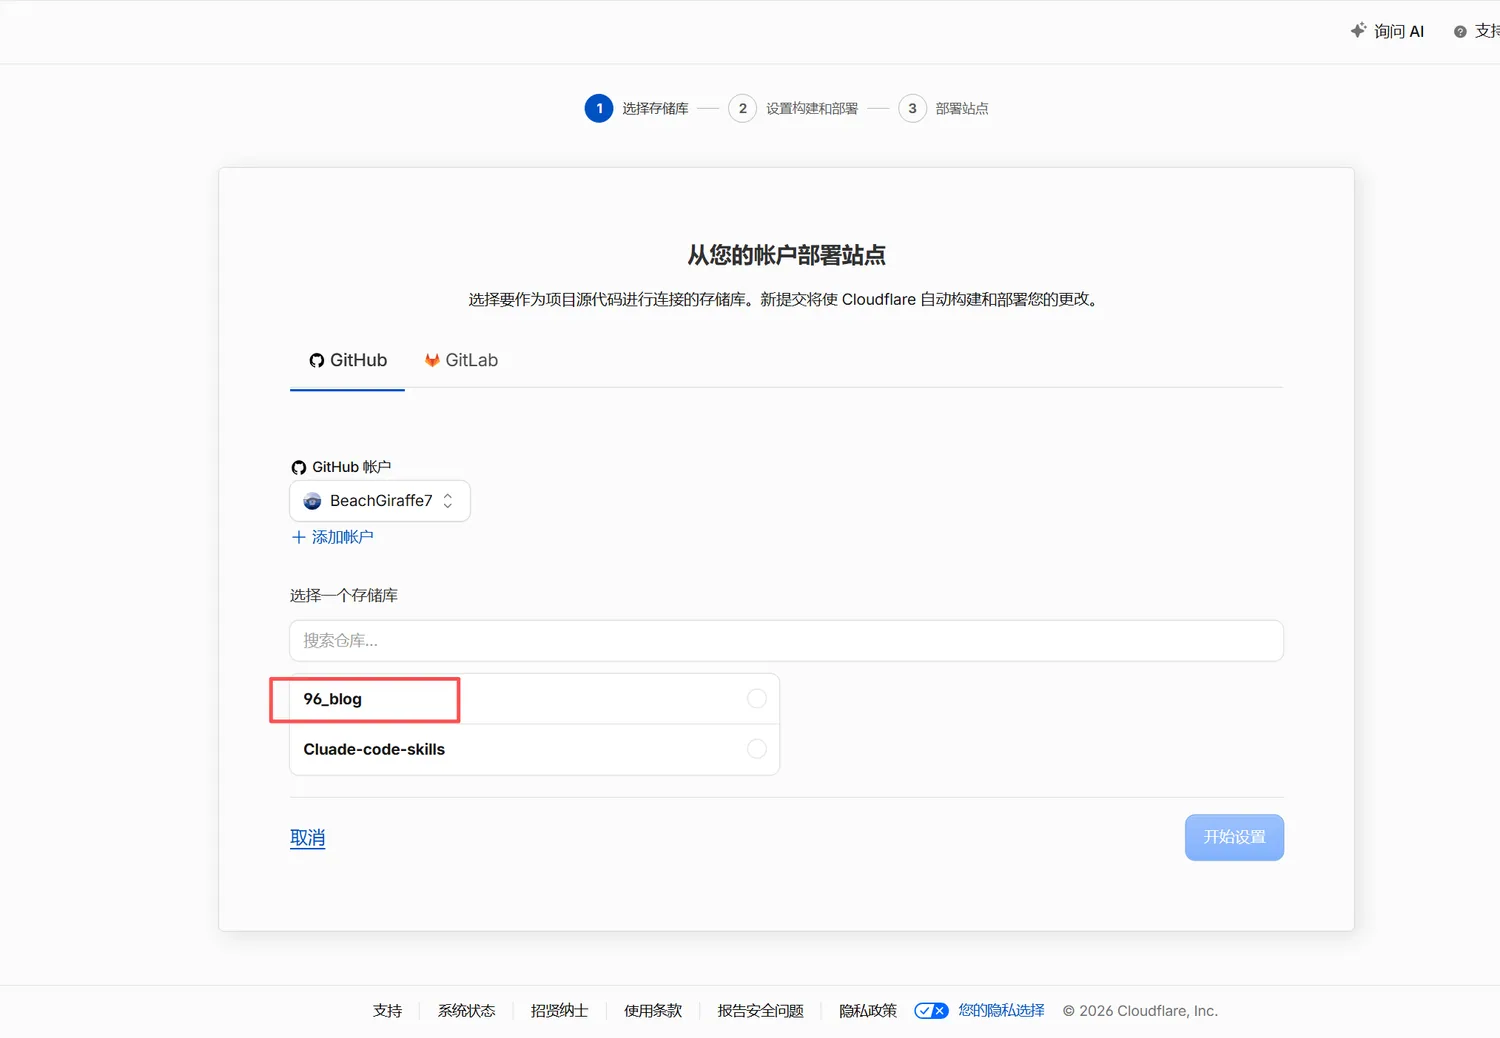
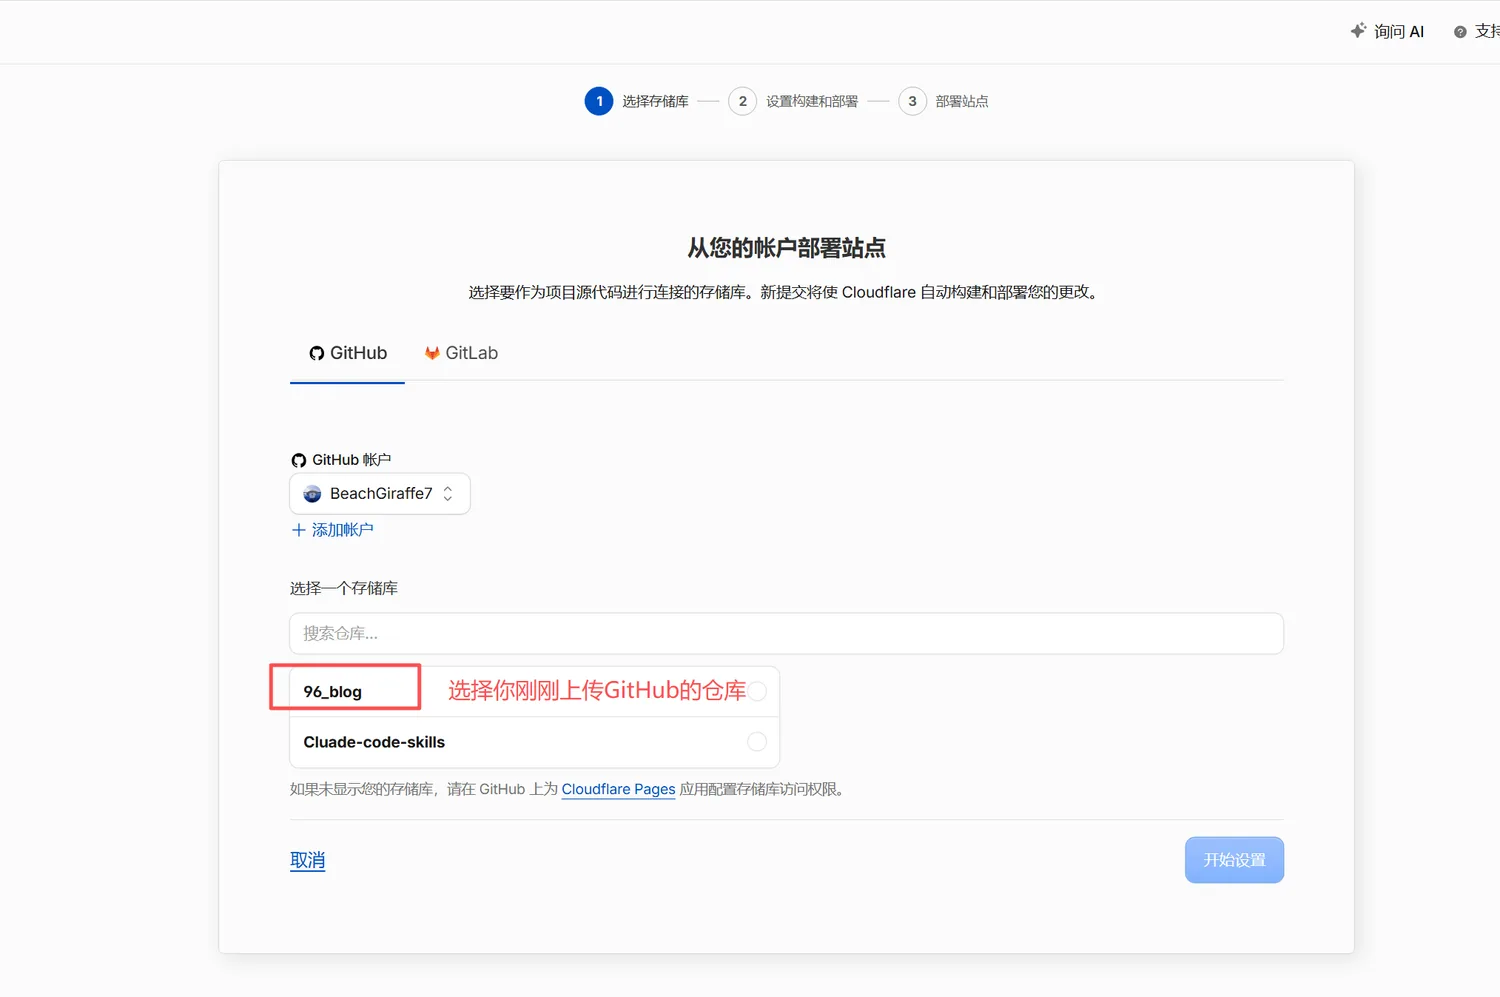
docs: 重排 Cloudflare 章节配图并补图注；新增图片规范与 photo 脚本

diff --git a/docs/图片与写作规范.md b/docs/图片与写作规范.md
@@ -1,0 +1,80 @@
+# 图片与写作规范
+
+站点的每张图都应该有唯一归属。乱放会带来两个问题：图片在线上打不开、仓库越来越胖。
+
+## 一、三种图，三个位置
+
+| 用途 | 存放位置 | 文章里怎么写 |
+| --- | --- | --- |
+| 文章配图（截图、电路图、实物照） | `public/notes/<slug>/image/` | `![](/notes/<slug>/image/xxx.webp)` |
+| 独立照片 / 相册（不属于某篇文章） | `public/photos/2026-10/` | `![](/photos/2026-10/xxx.webp)` |
+| 站点素材（头像、favicon） | `public/` 根目录 | `/avatar.webp` |
+| 分享封面（微信/抖音卡片） | 构建时自动生成到 `dist/og/` | 不用管 |
+| 原始大图（不发布、只本地留档） | `raw/`（已 gitignore） | 不引用 |
+
+`<slug>` 就是文章的网址尾段，例如 `git-github-desktop`。
+
+**为什么不能放 `src/`？** `src/` 是源码目录，里面的图片只有被代码 `import` 才会进打包，Markdown 里的路径引用不到它。只有 `public/` 下的文件会原样出现在线上。
+
+## 二、命名规则
+
+- 小写字母 + 中划线，语义化：`cf-01-workers-pages.webp`、`uart-timing.webp`
+- 同一篇文章里加序号前缀，保证排序稳定：`cf-01`、`cf-02`……
+- **不要用** `1.png`、`微信图片_20260712.png`、`4c868fec-...png` 这类名字，三个月后没人认得出
+
+## 三、尺寸与体积
+
+- 宽 1400–1500px 就够（正文最宽 860px，2 倍屏也清晰）
+- 格式统一 `.webp`，质量 82
+- 单张控制在 200KB 以内；超过就说明该裁或该压
+- 手机拍的照片先裁掉多余的背景，截图只保留有用区域
+
+## 四、截图必须先检查隐私
+
+发布前逐张看一眼，以下内容要裁掉或打码：
+
+- 邮箱、手机号、真实姓名
+- 云服务账号 ID、子域名（如 `xxx.workers.dev`）
+- 二维码、支付信息、聊天记录里的头像
+
+## 五、一条命令搞定转换
+
+照片先丢进 `raw/`，再执行：
+
+```bash
+# 单张，进某篇文章
+npm run photo -- raw/1.png --slug git-github-desktop
+
+# 整个目录，依次命名 cc-01、cc-02……
+npm run photo -- raw/ --slug lecture-07 --name cc
+
+# 独立照片
+npm run photo -- raw/海边.jpg --photos
+```
+
+脚本会自动：转 webp、缩到 1500 宽、放到正确目录、打印可以直接粘贴的 Markdown。
+
+可选参数：`--width 1200`、`--quality 80`、`--name 前缀`。
+
+## 六、图注怎么写
+
+```markdown
+![](/notes/git-github-desktop/image/cf-01-workers-pages.webp)
+```
+
+方括号里留空 → 图上不显示说明。
+方括号里写一句中文 → 图片下方显示为图注：
+
+```markdown
+![Workers & Pages 页面：右上角蓝色按钮就是「创建应用程序」](/notes/git-github-desktop/image/cf-01-workers-pages.webp)
+```
+
+（方括号里若是文件名，比如 `Snipaste_2026-07-05.png`，会被自动判定为噪音，不显示图注。）
+
+## 七、发布前自检
+
+- [ ] 图片都在 `public/notes/<slug>/image/` 或 `public/photos/` 下
+- [ ] 引用路径以 `/notes/` 或 `/photos/` 开头
+- [ ] 没有残留 `./xxx.assets/` 这类相对路径
+- [ ] 每张图都能在本地 `npm run dev` 里正常显示
+- [ ] 截图里没有隐私信息

diff --git a/src/content/notes/git-github-desktop.md b/src/content/notes/git-github-desktop.md
@@ -138,7 +138,7 @@ npm run dev
 
 登录 `dash.cloudflare.com`，左侧栏「计算」分组里点 `Workers & Pages`，然后点右上角的蓝色按钮。
 
-![](/notes/git-github-desktop/image/cf-01-workers-pages.webp)
+![Workers & Pages 页面：右上角蓝色按钮就是「创建应用程序」](/notes/git-github-desktop/image/cf-01-workers-pages.webp)
 
 **② 选择「Continue with GitHub」**
 
@@ -146,13 +146,15 @@ npm run dev
 
 注意面板底部还有一行小字「需要使用旧版 Pages 工作流？继续前往 Pages」——两种入口都能到达 Pages，走 GitHub 这个更顺。
 
+![「创建新项目」面板：第一项是 Continue with GitHub](/notes/git-github-desktop/image/cf-02-create-project.webp)
+
 **③ 在「开始使用 Pages」页选「导入现有 Git 存储库」**
 
 这里有两个选项：`导入现有 Git 存储库` 和 `拖放文件`。我们已经有仓库了，选第一个，点右侧的「开始使用」。
 
 （`拖放文件` 是直接把 `dist` 文件夹拖上去，适合没有仓库的情况，但那样每次更新都得手动重传。）
 
-![](/notes/git-github-desktop/image/cf-03-import-git.webp)
+![「开始使用 Pages」：选「导入现有 Git 存储库」](/notes/git-github-desktop/image/cf-03-import-git.webp)
 
 **④ 选中仓库**
 
@@ -163,7 +165,7 @@ npm run dev
 
 选中后点右下角 `开始设置`。
 
-![](/notes/git-github-desktop/image/cf-04-select-repo.webp)
+![选择存储库：勾选 96_blog，再点「开始设置」](/notes/git-github-desktop/image/cf-04-select-repo.webp)
 
 **⑤ 填构建配置**
 
@@ -178,7 +180,7 @@ npm run dev
 | 部署目录 | `dist` |
 | 根目录 | 留空 |
 
-![](/notes/git-github-desktop/image/cf-05-build-config.webp)
+![构建配置：框架预设选 React (Vite)，构建命令和输出目录会自动填好](/notes/git-github-desktop/image/cf-05-build-config.webp)
 
 点 `保存并部署`。它会开始拉代码、装依赖、跑构建，一两分钟后给出一个 `xxx.pages.dev` 地址。
 
